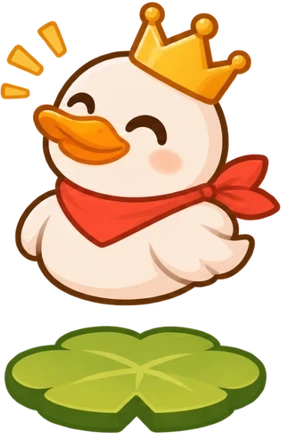
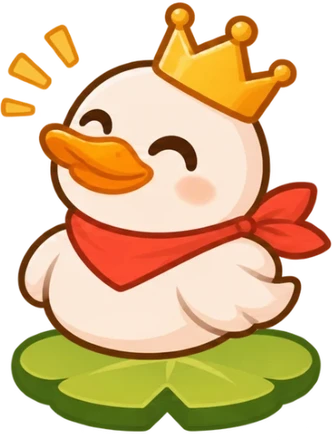
fix(mobile): Pro-only paywall with Monthly and Yearly cards
Team is gone (the app sells Pro only; a paid row in the database counts as
Pro). The perks list is gone. The page now follows the reference: crowned duck
hero, one headline, Monthly and Yearly as two cards with the picked one dark,
the price with the yearly saving, and Continue. Duck and eggs now sit on their
lily pads in the art.

diff --git a/mobile/src/screens/Paywall.tsx b/mobile/src/screens/Paywall.tsx
@@ -1,24 +1,32 @@
 import { useState } from 'react'
 import { createPortal } from 'react-dom'
 import { AnimatePresence, motion } from 'motion/react'
-import { Check, Lock, X } from '@/components/Icon'
+import { Check, X } from '@/components/Icon'
 import { IconButton, spring } from '@/components/ui'
 import { ui, useT } from '@/i18n'
 import { sound } from '@/lib/sound'
-import { PLANS, PRICES, type Period, type Plan } from '@/lib/plans'
-
-const price = (plan: Plan, period: Period) => (plan === 'free' ? 0 : period === 'monthly' ? PRICES[plan].monthly : PRICES[plan].yearly / 12)
+import { PLAN_ART, PRICE, type Period, type Plan } from '@/lib/plans'
 
 /**
- * The plans page ("Choose your plan"): Free, Pro and Team over the sunset pond, monthly or yearly
- * (20% off). Pro is picked to start with. `onChoose` gets the plan and period the learner settled on.
+ * The Bataa Pro page: the crowned duck on its lily pad, one headline, then Monthly or Yearly as two cards
+ * (the picked one dark), the price and one Continue button. `onChoose` gets the period picked.
  */
-export function Paywall({ open, current, onClose, onChoose }: { open: boolean; current: Plan; onClose: () => void; onChoose: (plan: Plan, period: Period) => void }) {
+export function Paywall({ open, current, onClose, onChoose }: { open: boolean; current: Plan; onClose: () => void; onChoose: (period: Period) => void }) {
   const { t, lang } = useT()
-  const [picked, setPicked] = useState<Plan>(current === 'free' ? 'pro' : current)
-  const [period, setPeriod] = useState<Period>('monthly')
+  const [period, setPeriod] = useState<Period>('yearly')
   const money = new Intl.NumberFormat(lang === 'ar' ? 'ar-EG' : 'en-US', { style: 'currency', currency: 'USD' })
-  const cta = picked === current ? ui.payYourPlan : picked === 'free' ? ui.payStayFree : picked === 'pro' ? ui.payUpgradePro : ui.payUpgradeTeam
+  const options = [
+    { id: 'monthly' as const, art: PLAN_ART.free, name: ui.payMonthly, price: money.format(PRICE.monthly), per: ui.payPerMonth, note: t(ui.payCancel) },
+    {
+      id: 'yearly' as const,
+      art: '/plans/team.webp',
+      name: ui.payYearly,
+      price: money.format(PRICE.yearly),
+      per: ui.payPerYear,
+      note: `${money.format(PRICE.yearly / 12)} ${t(ui.payYearlyNote)}`,
+    },
+  ]
+  const pro = current === 'pro'
 
   return createPortal(
     <AnimatePresence>
@@ -33,120 +41,89 @@ export function Paywall({ open, current, onClose, onChoose }: { open: boolean; c
           exit={{ y: '100%' }}
           transition={{ duration: 0.38, ease: [0.65, 0, 0.35, 1] }}
         >
-          <div className="flex-1 overflow-y-auto">
-            {/* Hero: the sunset pond as a header that fades into the page, the crowned duck in front. */}
-            <div className="relative h-[230px] bg-cover bg-top" style={{ backgroundImage: 'url(/plans/bg.webp)' }}>
-              <div className="absolute inset-0 bg-gradient-to-b from-transparent via-page/10 to-page" />
-              <div className="absolute start-4" style={{ top: 'calc(var(--sat, env(safe-area-inset-top, 0px)) + 0.75rem)' }}>
-                <IconButton label={t(ui.close)} onClick={onClose}>
-                  <X className="h-5 w-5" strokeWidth={2.5} />
-                </IconButton>
-              </div>
-              <motion.img
-                src={(PLANS.find((x) => x.id === (picked === 'free' ? 'pro' : picked)) ?? PLANS[1]).art}
-                key={picked === 'team' ? 'team' : 'pro'}
-                alt=""
-                draggable={false}
-                initial={{ opacity: 0, y: 12, scale: 0.94 }}
-                animate={{ opacity: 1, y: 0, scale: 1 }}
-                transition={spring}
-                className="absolute bottom-0 left-1/2 h-[140px] -translate-x-1/2 object-contain drop-shadow-lg"
-              />
-            </div>
+          {/* The sunset pond, faded into the page behind the top. */}
+          <div aria-hidden className="pointer-events-none absolute inset-x-0 top-0 h-[360px] bg-cover bg-top opacity-60" style={{ backgroundImage: 'url(/plans/bg.webp)' }}>
+            <div className="absolute inset-0 bg-gradient-to-b from-page/30 via-page/40 to-page" />
+          </div>
 
-            <div className="mx-auto grid max-w-[460px] gap-5 px-5 pb-6 pt-2">
-              <header className="text-center">
-                <h1 className="text-[30px] font-bold leading-tight tracking-tight">{t(ui.payTitle)}</h1>
-                <p className="mt-1 text-[15px] font-medium text-ink2">{t(ui.paySub)}</p>
-              </header>
+          <header className="relative flex items-center px-4 pb-1" style={{ paddingTop: 'calc(var(--sat, env(safe-area-inset-top, 0px)) + 0.75rem)' }}>
+            <span className="w-11" />
+            <h1 className="flex-1 text-center text-[17px] font-semibold">{t(ui.payTitle)}</h1>
+            <IconButton label={t(ui.close)} onClick={onClose}>
+              <X className="h-5 w-5" strokeWidth={2.5} />
+            </IconButton>
+          </header>
 
-              {/* Monthly or yearly. */}
-              <div className="mx-auto flex rounded-full bg-white p-1 shadow-soft">
-                {(['monthly', 'yearly'] as const).map((per) => (
-                  <button
-                    key={per}
-                    type="button"
-                    aria-pressed={period === per}
-                    onClick={() => setPeriod(per)}
-                    className={`relative flex h-10 items-center gap-2 rounded-full px-5 text-[14px] font-semibold ${period === per ? 'text-white' : 'text-ink2'}`}
-                  >
-                    {period === per && <motion.span layoutId="period" className="absolute inset-0 rounded-full bg-ink" transition={spring} />}
-                    <span className="relative">{t(per === 'monthly' ? ui.payMonthly : ui.payYearly)}</span>
-                    {per === 'yearly' && <span className="relative rounded-full bg-accent px-1.5 py-0.5 text-[11px] font-bold text-ink">-20%</span>}
-                  </button>
-                ))}
+          <div className="relative flex-1 overflow-y-auto">
+            <div className="mx-auto grid max-w-[460px] gap-6 px-5 pb-6 pt-2">
+              <div className="grid justify-items-center gap-3 text-center">
+                <div className="relative grid h-48 w-48 place-items-center">
+                  <span aria-hidden className="absolute inset-3 rounded-full bg-white/70 shadow-soft" />
+                  <motion.img
+                    src={PLAN_ART.pro}
+                    alt=""
+                    draggable={false}
+                    initial={{ opacity: 0, scale: 0.9, y: 8 }}
+                    animate={{ opacity: 1, scale: 1, y: 0 }}
+                    transition={{ ...spring, delay: 0.15 }}
+                    className="relative h-44 object-contain drop-shadow-md"
+                  />
+                </div>
+                <h2 className="text-[26px] font-bold leading-tight tracking-tight">{t(ui.payHeadline)}</h2>
+                <p className="text-[15px] font-medium text-ink2">{t(ui.paySub)}</p>
               </div>
 
-              {/* Plans as rows: tap one to pick it. */}
-              <div role="radiogroup" aria-label={t(ui.payTitle)} className="grid gap-2.5">
-                {PLANS.map((p) => {
-                  const on = p.id === picked
+              <div role="radiogroup" aria-label={t(ui.payTitle)} className="grid gap-3">
+                {options.map((o) => {
+                  const on = o.id === period
                   return (
                     <button
-                      key={p.id}
+                      key={o.id}
                       type="button"
                       role="radio"
                       aria-checked={on}
                       onClick={() => {
                         sound.playClick()
-                        setPicked(p.id)
+                        setPeriod(o.id)
                       }}
-                      className={`relative flex items-center gap-3 rounded-[22px] border-2 bg-white p-3 text-start transition-colors ${on ? 'border-accent' : 'border-transparent shadow-soft'}`}
+                      className={`relative flex items-center gap-4 rounded-[24px] p-4 text-start transition-colors ${on ? 'bg-ink text-white shadow-float' : 'bg-white text-ink shadow-soft'}`}
                     >
-                      {p.id === 'pro' && <span className="absolute -top-2.5 end-4 rounded-full bg-ink px-2.5 py-0.5 text-[10px] font-bold text-white">{t(ui.payPopular)}</span>}
-                      <img src={p.art} alt="" draggable={false} className="h-12 w-12 shrink-0 object-contain" />
+                      <img src={o.art} alt="" draggable={false} className="h-16 w-20 shrink-0 object-contain" />
                       <span className="min-w-0 flex-1">
-                        <span className="block text-[17px] font-semibold leading-tight">{t(p.title)}</span>
-                        <span className="block truncate text-[13px] font-medium text-ink2">{p.id === current ? t(ui.payYourPlan) : t(p.tagline)}</span>
-                      </span>
-                      <span className="text-end">
-                        <span className="block text-[17px] font-bold tabular-nums">
-                          {p.id === 'free' ? money.format(0).replace(/[.,٫]00/, '') : money.format(price(p.id, period))}
+                        <span className="flex items-center gap-2 text-[17px] font-semibold">
+                          {t(o.name)}
+                          {o.id === 'yearly' && <span className="rounded-full bg-accent px-2 py-0.5 text-[11px] font-bold text-ink">{t(ui.payOff)}</span>}
                         </span>
-                        <span className="block text-[11px] font-semibold text-ink3">{t(ui.payPerMonth)}</span>
+                        <span className="mt-0.5 block text-[15px] font-semibold">
+                          {o.price} <span className={`font-medium ${on ? 'text-white/70' : 'text-ink2'}`}>{t(o.per)}</span>
+                        </span>
+                        <span className={`block text-[13px] font-medium ${on ? 'text-white/70' : 'text-brand'}`}>{o.note}</span>
                       </span>
-                      <span className={`grid h-6 w-6 shrink-0 place-items-center rounded-full border-2 ${on ? 'border-accent bg-accent text-ink' : 'border-lip'}`}>
+                      <span className={`absolute end-4 top-4 grid h-6 w-6 place-items-center rounded-full border-2 ${on ? 'border-accent bg-accent text-ink' : 'border-lip'}`}>
                         {on && <Check className="h-3 w-3" />}
                       </span>
                     </button>
                   )
                 })}
               </div>
-              {/* What the picked plan gets, in one clean list. */}
-              <ul className="grid gap-2.5 px-1">
-                {(PLANS.find((x) => x.id === picked) ?? PLANS[1]).perks.map((perk) => (
-                  <li key={perk.text.en} className={`flex items-center gap-3 text-[15px] font-semibold ${perk.on ? 'text-ink' : 'text-ink3'}`}>
-                    {perk.on ? (
-                      <span className="grid h-6 w-6 shrink-0 place-items-center rounded-full bg-okSoft text-okDeep">
-                        <Check className="h-3.5 w-3.5" />
-                      </span>
-                    ) : (
-                      <span className="grid h-6 w-6 shrink-0 place-items-center rounded-full bg-warm">
-                        <Lock className="h-3.5 w-3.5 text-ink3" />
-                      </span>
-                    )}
-                    {t(perk.text)}
-                  </li>
-                ))}
-              </ul>
             </div>
           </div>
 
-          {/* One button, always in reach. */}
-          <div className="border-t border-line bg-page/95 px-5 pt-3 backdrop-blur" style={{ paddingBottom: 'calc(var(--sab, env(safe-area-inset-bottom, 0px)) + 0.75rem)' }}>
-            <div className="mx-auto grid max-w-[460px] gap-2">
+          <div className="relative rounded-t-[28px] bg-white px-5 pt-4 shadow-float" style={{ paddingBottom: 'calc(var(--sab, env(safe-area-inset-bottom, 0px)) + 0.75rem)' }}>
+            <div className="mx-auto grid max-w-[460px] gap-2.5 text-center">
+              <p className="text-[14px] font-semibold">
+                {period === 'yearly' && <s className="me-1.5 font-medium text-ink3">{money.format(PRICE.monthly * 12)}</s>}
+                {period === 'yearly' ? `${money.format(PRICE.yearly)} ${t(ui.payPerYear)} (${t(ui.payOff)})` : `${money.format(PRICE.monthly)} ${t(ui.payPerMonth)}`}
+              </p>
               <button
                 type="button"
-                disabled={picked === current}
-                onClick={() => onChoose(picked, period)}
+                disabled={pro}
+                onClick={() => onChoose(period)}
                 className="h-14 w-full rounded-full bg-accent text-[17px] font-bold text-ink shadow-soft transition-transform active:scale-[.98] disabled:bg-lip disabled:text-ink3"
               >
-                {t(cta)}
+                {t(pro ? ui.payYourPlan : ui.payContinue)}
               </button>
-              <p className="text-center text-[12px] font-medium text-ink3">
-                {period === 'yearly' && picked !== 'free' ? `${money.format(PRICES[picked].yearly)} ${t(ui.payBilledYearly)} · ` : ''}
-                {t(ui.payCancel)} · {t(ui.paySecure)}
-              </p>
+              <p className="text-[12px] font-medium text-ink3">{t(ui.payCancel)}</p>
             </div>
           </div>
         </motion.div>

diff --git a/mobile/src/lib/plans.ts b/mobile/src/lib/plans.ts
@@ -1,17 +1,16 @@
 /**
- * Plans: Free, Pro and Team. The plan lives in Supabase (`subscriptions`, written only by the server) and
- * is read through the current_plan() function; signed out means Free. What each plan unlocks:
+ * Plans: Free and Pro. The plan lives in Supabase (`subscriptions`, written only by the server) and is read
+ * through the current_plan() function; signed out means Free. What each plan unlocks:
  * - Free: the first unit and FREE_DAILY Bataa AI messages a day (the tutor function enforces the limit).
- * - Pro and Team: every unit and unlimited Bataa AI. Team adds classrooms (coming later).
+ * - Pro: every unit and unlimited Bataa AI.
  * See supabase/migrations/20261113120000_plans.sql.
  */
 import { useEffect, useState } from 'react'
 import type { Session } from '@supabase/supabase-js'
 import { supabase } from '@/lib/account'
 import { units } from '@/data/course'
-import type { L } from '@/types'
 
-export type Plan = 'free' | 'pro' | 'team'
+export type Plan = 'free' | 'pro'
 export type Period = 'monthly' | 'yearly'
 
 /** Keep in step with FREE_DAILY in supabase/functions/tutor. */
@@ -19,50 +18,11 @@ export const FREE_DAILY = 10
 /** Units open on the Free plan. */
 export const FREE_UNITS = ['html']
 
-/** Prices in US dollars. Yearly is 20% off twelve months. */
-export const PRICES: Record<Exclude<Plan, 'free'>, Record<Period, number>> = {
-  pro: { monthly: 4.99, yearly: 47.99 },
-  team: { monthly: 9.99, yearly: 95.99 },
-}
+/** Pro prices in US dollars. Yearly is 20% off twelve months. */
+export const PRICE: Record<Period, number> = { monthly: 4.99, yearly: 47.99 }
 
-export const PLANS: { id: Plan; art: string; title: L; tagline: L; perks: { text: L; on: boolean }[] }[] = [
-  {
-    id: 'free',
-    art: '/plans/free.webp',
-    title: { en: 'Free', ar: 'مجاني' },
-    tagline: { en: 'Start learning for free.', ar: 'ابدأ التعلّم مجانًا.' },
-    perks: [
-      { text: { en: 'HTML unit', ar: 'وحدة HTML' }, on: true },
-      { text: { en: `${FREE_DAILY} AI messages a day`, ar: `${FREE_DAILY} رسائل ذكاء اصطناعي يوميًا` }, on: true },
-      { text: { en: 'CSS unit', ar: 'وحدة CSS' }, on: false },
-      { text: { en: 'Unlimited Bataa AI', ar: 'بطّة الذكية بلا حدود' }, on: false },
-    ],
-  },
-  {
-    id: 'pro',
-    art: '/plans/pro.webp',
-    title: { en: 'Pro', ar: 'برو' },
-    tagline: { en: 'Unlock the full course.', ar: 'افتح الدورة كاملة.' },
-    perks: [
-      { text: { en: 'All lessons and units', ar: 'كل الدروس والوحدات' }, on: true },
-      { text: { en: 'Unlimited Bataa AI', ar: 'بطّة الذكية بلا حدود' }, on: true },
-      { text: { en: 'New lessons first', ar: 'الدروس الجديدة أولًا' }, on: true },
-      { text: { en: 'Support Bataa', ar: 'ادعم بطّة' }, on: true },
-    ],
-  },
-  {
-    id: 'team',
-    art: '/plans/team.webp',
-    title: { en: 'Team', ar: 'فريق' },
-    tagline: { en: 'Learn together.', ar: 'تعلّموا معًا.' },
-    perks: [
-      { text: { en: 'Everything in Pro', ar: 'كل ما في برو' }, on: true },
-      { text: { en: 'Classrooms (soon)', ar: 'فصول دراسية (قريبًا)' }, on: true },
-      { text: { en: 'Shared progress (soon)', ar: 'تقدّم مشترك (قريبًا)' }, on: true },
-      { text: { en: 'Group challenges (soon)', ar: 'تحديات جماعية (قريبًا)' }, on: true },
-    ],
-  },
-]
+/** Each plan's art: an egg on a lily pad for Free, the crowned duck for Pro. */
+export const PLAN_ART: Record<Plan, string> = { free: '/plans/free.webp', pro: '/plans/pro.webp' }
 
 /** True when a lesson's unit is closed on this plan. */
 export const proOnly = (plan: Plan, lessonId: string) => plan === 'free' && !units.some((u) => FREE_UNITS.includes(u.id) && u.lessons.some((l) => l.id === lessonId))
@@ -74,7 +34,8 @@ export function usePlan(session: Session | null) {
   useEffect(() => {
     if (!supabase || !session) return setPlan('free')
     let live = true
-    supabase.rpc('current_plan').then(({ data }) => live && setPlan(data === 'pro' || data === 'team' ? data : 'free'))
+    // The database also allows 'team'; the app sells Pro only, so any paid plan counts as Pro.
+    supabase.rpc('current_plan').then(({ data }) => live && setPlan(data === 'free' || !data ? 'free' : 'pro'))
     return () => {
       live = false
     }

diff --git a/mobile/src/i18n.ts b/mobile/src/i18n.ts
@@ -13,20 +13,20 @@ export const ui = {
   learn: { en: 'Learn', ar: 'تعلّم' },
   practice: { en: 'Practice', ar: 'تدريب' },
   aiTitle: { en: 'Bataa AI', ar: 'بطّة الذكية' },
-  payTitle: { en: 'Choose your plan', ar: 'اختر خطتك' },
-  paySub: { en: 'Learn, practise and grow with Bataa.', ar: 'تعلّم وتدرّب وتطوّر مع بطّة.' },
-  payPopular: { en: 'Most popular', ar: 'الأكثر طلبًا' },
+  payTitle: { en: 'Bataa Pro', ar: 'بطّة برو' },
+  payHeadline: { en: 'Learn without limits', ar: 'تعلّم بلا حدود' },
+  paySub: { en: 'Every lesson, and unlimited Bataa AI.', ar: 'كل الدروس، وبطّة الذكية بلا حدود.' },
   payMonthly: { en: 'Monthly', ar: 'شهري' },
   payYearly: { en: 'Yearly', ar: 'سنوي' },
+  payPerYear: { en: '/year', ar: '/سنويًا' },
+  payYearlyNote: { en: 'a month, billed yearly', ar: 'شهريًا، تُدفع سنويًا' },
+  payOff: { en: '20% off', ar: 'خصم 20%' },
+  payContinue: { en: 'Continue', ar: 'متابعة' },
+  payYourPlan: { en: 'You are on Pro', ar: 'أنت مشترك في برو' },
+  planFree: { en: 'Free', ar: 'مجاني' },
+  planPro: { en: 'Bataa Pro', ar: 'بطّة برو' },
   payPerMonth: { en: '/month', ar: '/شهريًا' },
-  payBilledYearly: { en: 'billed once a year', ar: 'تُدفع مرة كل سنة' },
-  payYourPlan: { en: 'Your plan', ar: 'خطتك الحالية' },
-  payStayFree: { en: 'Keep learning free', ar: 'تابع مجانًا' },
-  payUpgradePro: { en: 'Upgrade to Pro', ar: 'ترقية إلى برو' },
-  payUpgradeTeam: { en: 'Get Team', ar: 'احصل على فريق' },
   payCancel: { en: 'Cancel anytime', ar: 'إلغاء في أي وقت' },
-  paySecure: { en: 'Secure payments', ar: 'دفع آمن' },
-  paySupport: { en: 'Friendly support', ar: 'دعم ودود' },
   paySoon: { en: 'Payments open very soon. We will let you know!', ar: 'الدفع سيفتح قريبًا جدًا. سنخبرك!' },
   paySignIn: { en: 'Sign in first, so your plan follows you to every device.', ar: 'سجّل الدخول أولًا لتنتقل خطتك معك إلى كل جهاز.' },
   proLocked: { en: 'This lesson is part of Bataa Pro. Upgrade to unlock every unit.', ar: 'هذا الدرس جزء من بطّة برو. قم بالترقية لفتح كل الوحدات.' },

diff --git a/mobile/src/screens/Profile.tsx b/mobile/src/screens/Profile.tsx
@@ -11,7 +11,7 @@ import { Button, Sky, Tray, spring } from '@/components/ui'
 import { ui, useT } from '@/i18n'
 import { sound } from '@/lib/sound'
 import { saveAvatar, signOut } from '@/lib/account'
-import { PLANS, type Plan } from '@/lib/plans'
+import { PLAN_ART, type Plan } from '@/lib/plans'
 import { GoogleButton } from '@/components/GoogleButton'
 import { NAME_MAX, isoDay, streak, type Progress } from '@/state/progress'
 
@@ -190,10 +190,10 @@ export function Profile({
       <div className="grid gap-7 px-4 pb-6 pt-3">
         {/* Plan: what the learner is on, and the way to the plans page. */}
         <button type="button" onClick={onUpgrade} className="card flex items-center gap-3 p-3 text-start active:scale-[.99] transition-transform">
-          <img src={PLANS.find((x) => x.id === plan)!.art} alt="" className="h-12 w-12 shrink-0 object-contain" />
+          <img src={PLAN_ART[plan]} alt="" className="h-12 w-12 shrink-0 object-contain" />
           <span className="min-w-0 flex-1">
             <span className="block text-[12px] font-semibold text-ink2">{t(ui.planLabel)}</span>
-            <span className="block text-[17px] font-semibold">{plan === 'free' ? t(PLANS[0].title) : `Bataa ${t(PLANS.find((x) => x.id === plan)!.title)}`}</span>
+            <span className="block text-[17px] font-semibold">{t(plan === 'free' ? ui.planFree : ui.planPro)}</span>
           </span>
           <span className={`rounded-full px-3.5 py-2 text-[13px] font-semibold ${plan === 'free' ? 'bg-accent text-ink' : 'bg-warm text-ink'}`}>
             {t(plan === 'free' ? ui.upgrade : ui.managePlan)}

diff --git a/mobile/src/lib/plans.test.ts b/mobile/src/lib/plans.test.ts
@@ -1,14 +1,14 @@
 import { expect, test } from 'bun:test'
 import { units } from '@/data/course'
-import { PRICES, proOnly } from './plans'
+import { PRICE, proOnly } from './plans'
 
-test('Free opens the first unit only; paid plans open everything', () => {
+test('Free opens the first unit only; Pro opens everything', () => {
   const [html, css] = units
   for (const l of html.lessons) expect(proOnly('free', l.id)).toBe(false)
   for (const l of css.lessons) expect(proOnly('free', l.id)).toBe(true)
-  for (const plan of ['pro', 'team'] as const) for (const u of units) for (const l of u.lessons) expect(proOnly(plan, l.id)).toBe(false)
+  for (const u of units) for (const l of u.lessons) expect(proOnly('pro', l.id)).toBe(false)
 })
 
 test('yearly is about 20% off twelve months', () => {
-  for (const p of Object.values(PRICES)) expect(p.yearly / (p.monthly * 12)).toBeCloseTo(0.8, 1)
+  expect(PRICE.yearly / (PRICE.monthly * 12)).toBeCloseTo(0.8, 1)
 })

diff --git a/mobile/src/App.tsx b/mobile/src/App.tsx
@@ -168,11 +168,10 @@ export default function App() {
           open={paywall}
           current={plan}
           onClose={() => setPaywall(false)}
-          onChoose={(choice) => {
-            if (choice === 'free') return setPaywall(false)
-            // shortcut: no payment provider is connected yet, so a paid choice only says so; wire checkout here.
+          onChoose={() =>
+            // shortcut: no payment provider is connected yet, so Continue only says so; start Google Play Billing here.
             toast((session ? ui.paySoon : ui.paySignIn)[p.lang])
-          }}
+          }
         />
         <Toaster
           position="top-center"
